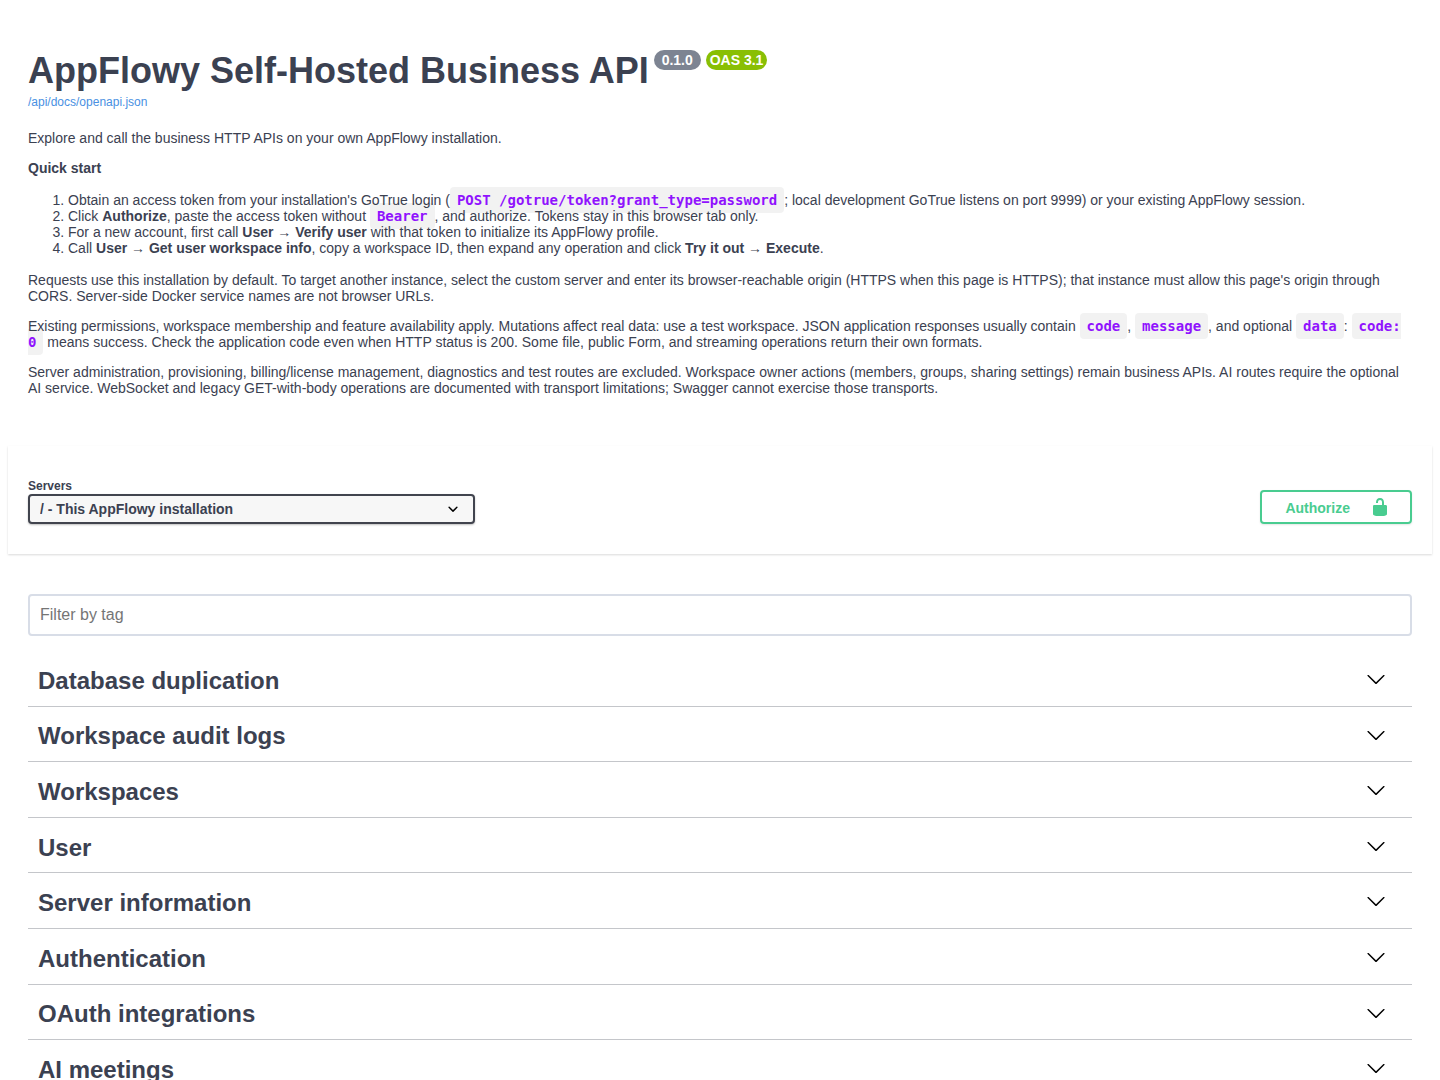
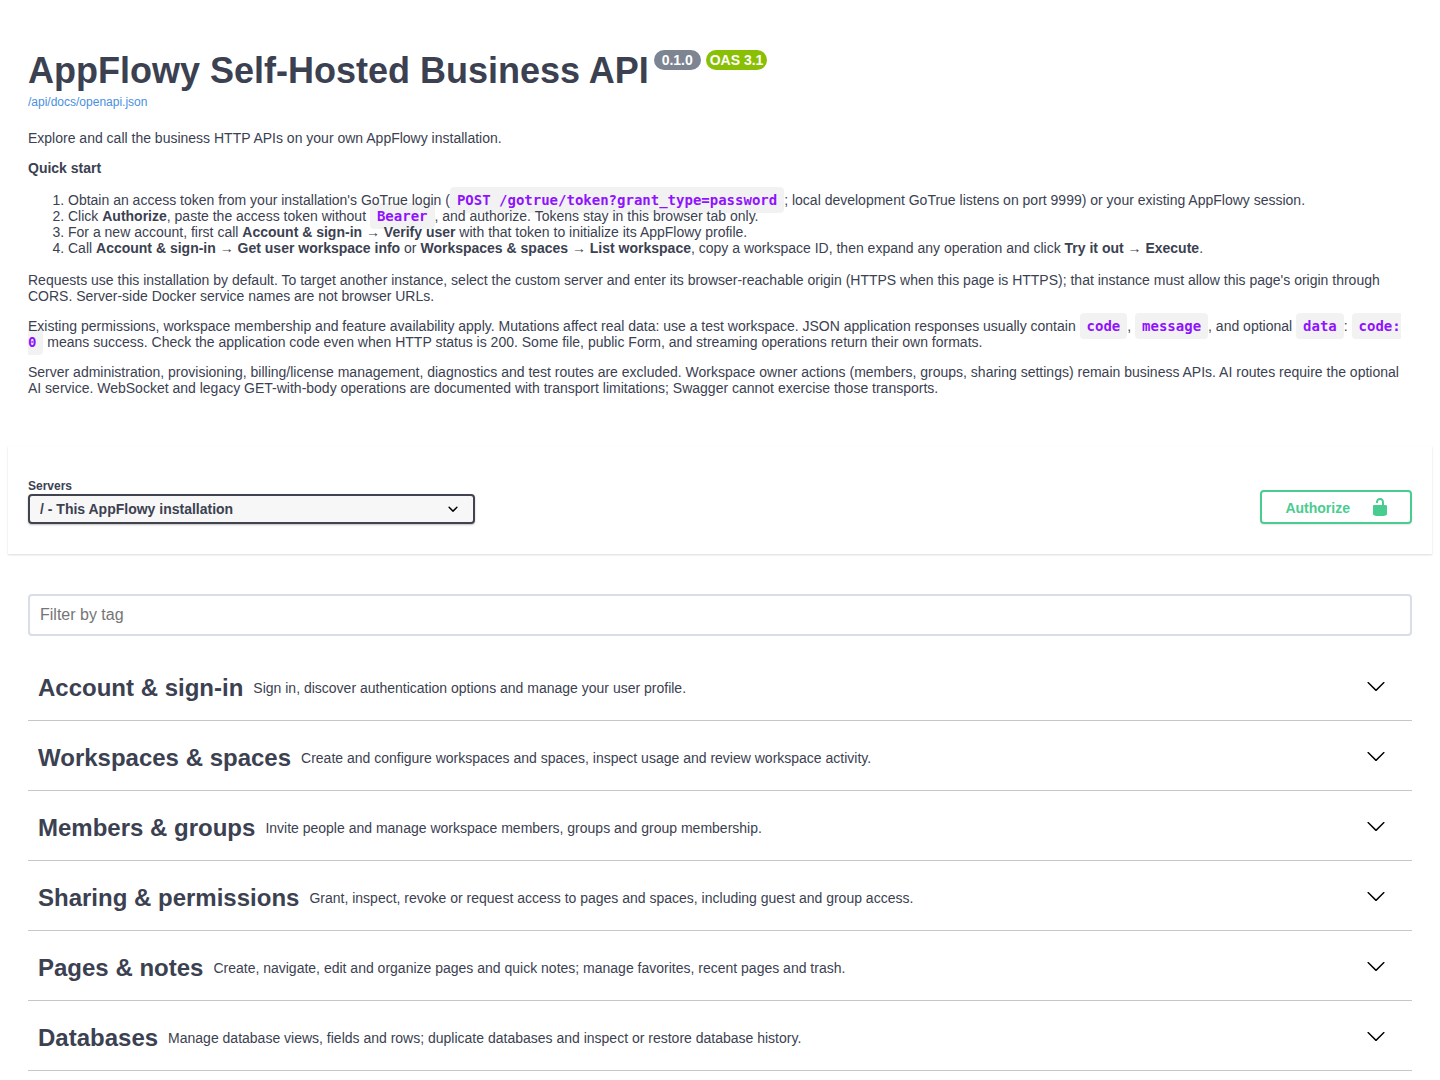
docs: guide readers through task-based API categories

Changed region(s): [[0.0312, 0.825, 0.625, 1.0], [0.0312, 0.6111, 0.5938, 0.7944], [0.0625, 0.2139, 0.8438, 0.2444]]

diff --git a/docs/OPENAPI.md b/docs/OPENAPI.md
@@ -16,7 +16,8 @@ https://github.com/user-attachments/assets/3a4ab66c-515a-4fee-8986-9ba09d590c56
 The recording and response screenshots use disposable data from a local development preview
 captured on 2026-10-08 against a hosted-mode test server. Use your own deployment URL and IDs;
 the preview's localhost port is not a deployment setting. Credentials are masked and generated
-curl output is hidden in these examples.
+curl output is hidden in these examples. The video predates the simplified categories; use the
+current names in the steps and catalog screenshot below.
 
 ## Before you begin
 
@@ -49,9 +50,35 @@ then expand an operation. The **Authorize** button is beside the server selector
 
 ![Swagger API catalog with the server selector, Authorize button, and API groups](../asset/openapi/01-swagger-overview.png)
 
-The reference covers business operations such as workspaces, pages, databases, files, sharing,
-publishing, search, and AI. Server administration, SCIM provisioning, and license/billing management
-are excluded. Available features still depend on your installation's configuration and license.
+### Find the right category
+
+Categories follow the task you want to perform. Each API appears once, so related operations stay
+together even when their URLs use different prefixes.
+
+| Category | Use it to… |
+| --- | --- |
+| **Account & sign-in** | Sign in, inspect available sign-in methods, and manage your profile. |
+| **Workspaces & spaces** | Create and configure workspaces and spaces, and inspect workspace activity. |
+| **Members & groups** | Invite people and manage workspace members and groups. |
+| **Sharing & permissions** | Grant, inspect, revoke, or request access to pages and spaces. |
+| **Pages & notes** | Create, read, organize, and delete pages and quick notes; browse the folder tree. |
+| **Databases** | Manage database views, fields, and rows; duplicate or restore a database. |
+| **Forms** | Manage form sharing and submit public forms. |
+| **Comments & notifications** | Comment, mention people, follow pages, and manage reminders and notifications. |
+| **Publishing** | Publish pages to the web and manage published content. |
+| **Files** | Upload, download, and manage attachments. |
+| **Imports & exports** | Import documents or CSV data and export workspaces or PDFs. |
+| **Search** | Find content and backlinks, or rebuild search embeddings. |
+| **Templates** | Browse and manage templates, their categories, and creators. |
+| **Integrations** | Connect external services and authorize third-party API clients. |
+| **AI** | Use chat, writing assistance, database assistance, models, and meeting transcription. |
+| **Sync & history** | Synchronize collaboration state and inspect or revert its versions. |
+
+For example, find a CSV import under **Imports & exports**, a group access grant under
+**Sharing & permissions**, and database duplication under **Databases**.
+
+Server administration, SCIM provisioning, and license/billing management are excluded. Available
+features still depend on your installation's configuration and license.
 
 ## Step 2: Authorize requests
 
@@ -89,7 +116,7 @@ token expires, obtain a new one and authorize again.
 
 ## Step 3: List your workspaces
 
-1. Expand **Workspaces → List workspace** (`GET /api/workspace`).
+1. Expand **Workspaces & spaces → List workspace** (`GET /api/workspace`).
 2. Click **Try it out**, then **Execute**.
 3. Scroll to **Server response** and find your workspaces under `data`. For AppFlowy's JSON
    envelope, `code: 0` means success; HTTP `200` alone does not guarantee business success.
@@ -115,7 +142,7 @@ these screenshots.
 
 ### Create a page
 
-1. Open **Pages and spaces → Post page view** (`POST /api/workspace/{workspace_id}/page-view`).
+1. Open **Pages & notes → Post page view** (`POST /api/workspace/{workspace_id}/page-view`).
 2. Set `workspace_id` to the ID from step 3. In the body, set `parent_view_id` to an existing space
    in that workspace and set the page `name`. The example below creates a document with `layout: 0`
    and `content_mode: "create_content"`.
@@ -136,7 +163,7 @@ Example body (replace `YOUR_SPACE_ID` with an existing space ID):
 
 ### Read the page you created
 
-Open **Pages and spaces → Get page view**, reuse the same `workspace_id`, and set `view_id` to the
+Open **Pages & notes → Get page view**, reuse the same `workspace_id`, and set `view_id` to the
 ID returned when creating the page. Execute it to inspect the page content in **Server response**.
 
 ![Read the created page through Swagger](../asset/openapi/04-read-page.png)
